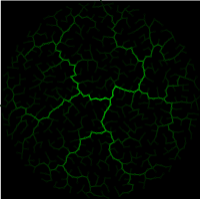
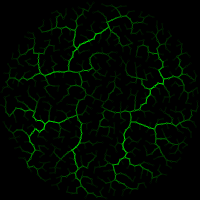
rewrite rrt depth alg

diff --git a/app/common/rrt_diagram.js b/app/common/rrt_diagram.js
@@ -14,6 +14,7 @@ export type RRTPoint = {|
   // its a distance from most distant leaf
   index: RRTPointId,
   parent: ?RRTPointId,
+  children: Array<RRTPointId>,
 |}
 export type RRTDiagram = Array<RRTPoint>
 export type RRTGenerationsIndex = Array<Array<RRTPointId>>
@@ -39,52 +40,36 @@ export const generate = (step: number, randPointFunc: RandPointFunc, rootPoint: 
     generation: 0,
     index: 0,
     parent: null,
+    children: [],
   }
-  return generateRec(step, randPointFunc, [firstPoint])
+  return calcChildrenIndex(generateRec(step, randPointFunc, [firstPoint]))
 }
 
-export const calcDepth = (rrt: RRTDiagram): RRTWDDiagram => {
-  const preIndex = R.map(e => ({ ...e, children: [] }), rrt)
-  const childrenIndex = R.reduce((acc, p) => {
-    if (p.parent == null) {
-      return acc
-    }
-    acc[p.parent].children.push(p.index)
-    return acc
-  }, preIndex, preIndex)
-  const leafsProcessed = R.map(p => {
-    if (childrenIndex[p.index].children.length === 0) {
-      return { ...p, depth: 0 }
-    }
-    return p
-  }, rrt)
-  return calcDepthRec(leafsProcessed, childrenIndex)
-}
+export const calcDepth = (rrt: RRTDiagram): RRTWDDiagram => calcDepthRec(rrt, R.map(e => e.index, rrt), 0)
 
 
-const calcDepthRec = (rrt, childrenIndex): RRTWDDiagram => {
-  const has = R.any(e => !R.has('depth', e), rrt)
-  if (!has) {
-    // $FlowIgnore no null values here but dunno how to explain this to flow
+const calcDepthRec = (orrt, openList, depth): RRTWDDiagram => {
+  const rrt = [...orrt]
+  const leafs = R.filter(index => {
+    const point = rrt[index]
+    if (point.parent === null || rrt[point.parent].depth !== undefined) {
+      return true
+    }
+    const goodChildren = R.filter(ci => rrt[ci].depth === undefined, point.children)
+    const isLeaf = goodChildren.length === 0
+    return isLeaf
+  }, openList)
+  R.forEach(i => {
+    // $FlowIgnore
+    rrt[i].depth = depth
+  }, leafs)
+  // not very optimal, should use index
+  const newOpenList = R.difference(openList, leafs)
+  if (newOpenList.length === 0) {
+    // $FlowIgnore
     return rrt
   }
-  const rrtNew = R.map(p => {
-    if (p.depth !== undefined) {
-      return p
-    }
-    const max = R.reduce((acc, i) => {
-      const iDepth = rrt[i].depth
-      if (acc === null || iDepth === undefined) {
-        return null
-      }
-      return acc > iDepth ? acc : iDepth
-    }, 0, childrenIndex[p.index].children)
-    if (max === null) {
-      return p
-    }
-    return { ...p, depth: max + 1 }
-  }, rrt)
-  return calcDepthRec(rrtNew, childrenIndex)
+  return calcDepthRec(rrt, newOpenList, depth + 1)
 }
 
 const generateRec = (step: number, randPointFunc: RandPointFunc, points: RRTDiagram = []): RRTDiagram => {
@@ -117,6 +102,17 @@ const getNewPoint = (
     generation: nearest.generation + 1,
     index,
     parent: nearest.index,
+    children: [],
   }
   return pp
+}
+
+const calcChildrenIndex = (rrt: RRTDiagram): RRTDiagram => {
+  return R.reduce((acc, p) => {
+    if (p.parent == null) {
+      return acc
+    }
+    acc[p.parent].children.push(p.index)
+    return acc
+  }, rrt, rrt)
 }

diff --git a/app/experimental/components/samples_collection.jsx b/app/experimental/components/samples_collection.jsx
@@ -139,7 +139,7 @@ const colorConfig: Array<SamplePreviewConfig> = [
   },
   {
     name: 'rrt depth',
-    description: 'depth is a distance from the most distant leaf',
+    description: 'point depth is kind of leaf order -- leafs are 0, next to leafs are 1, etc',
     sample_url: './rrt_depth',
     img_path: './thumbnails/rrt_depth.png',
     status: 'almost_ready',
